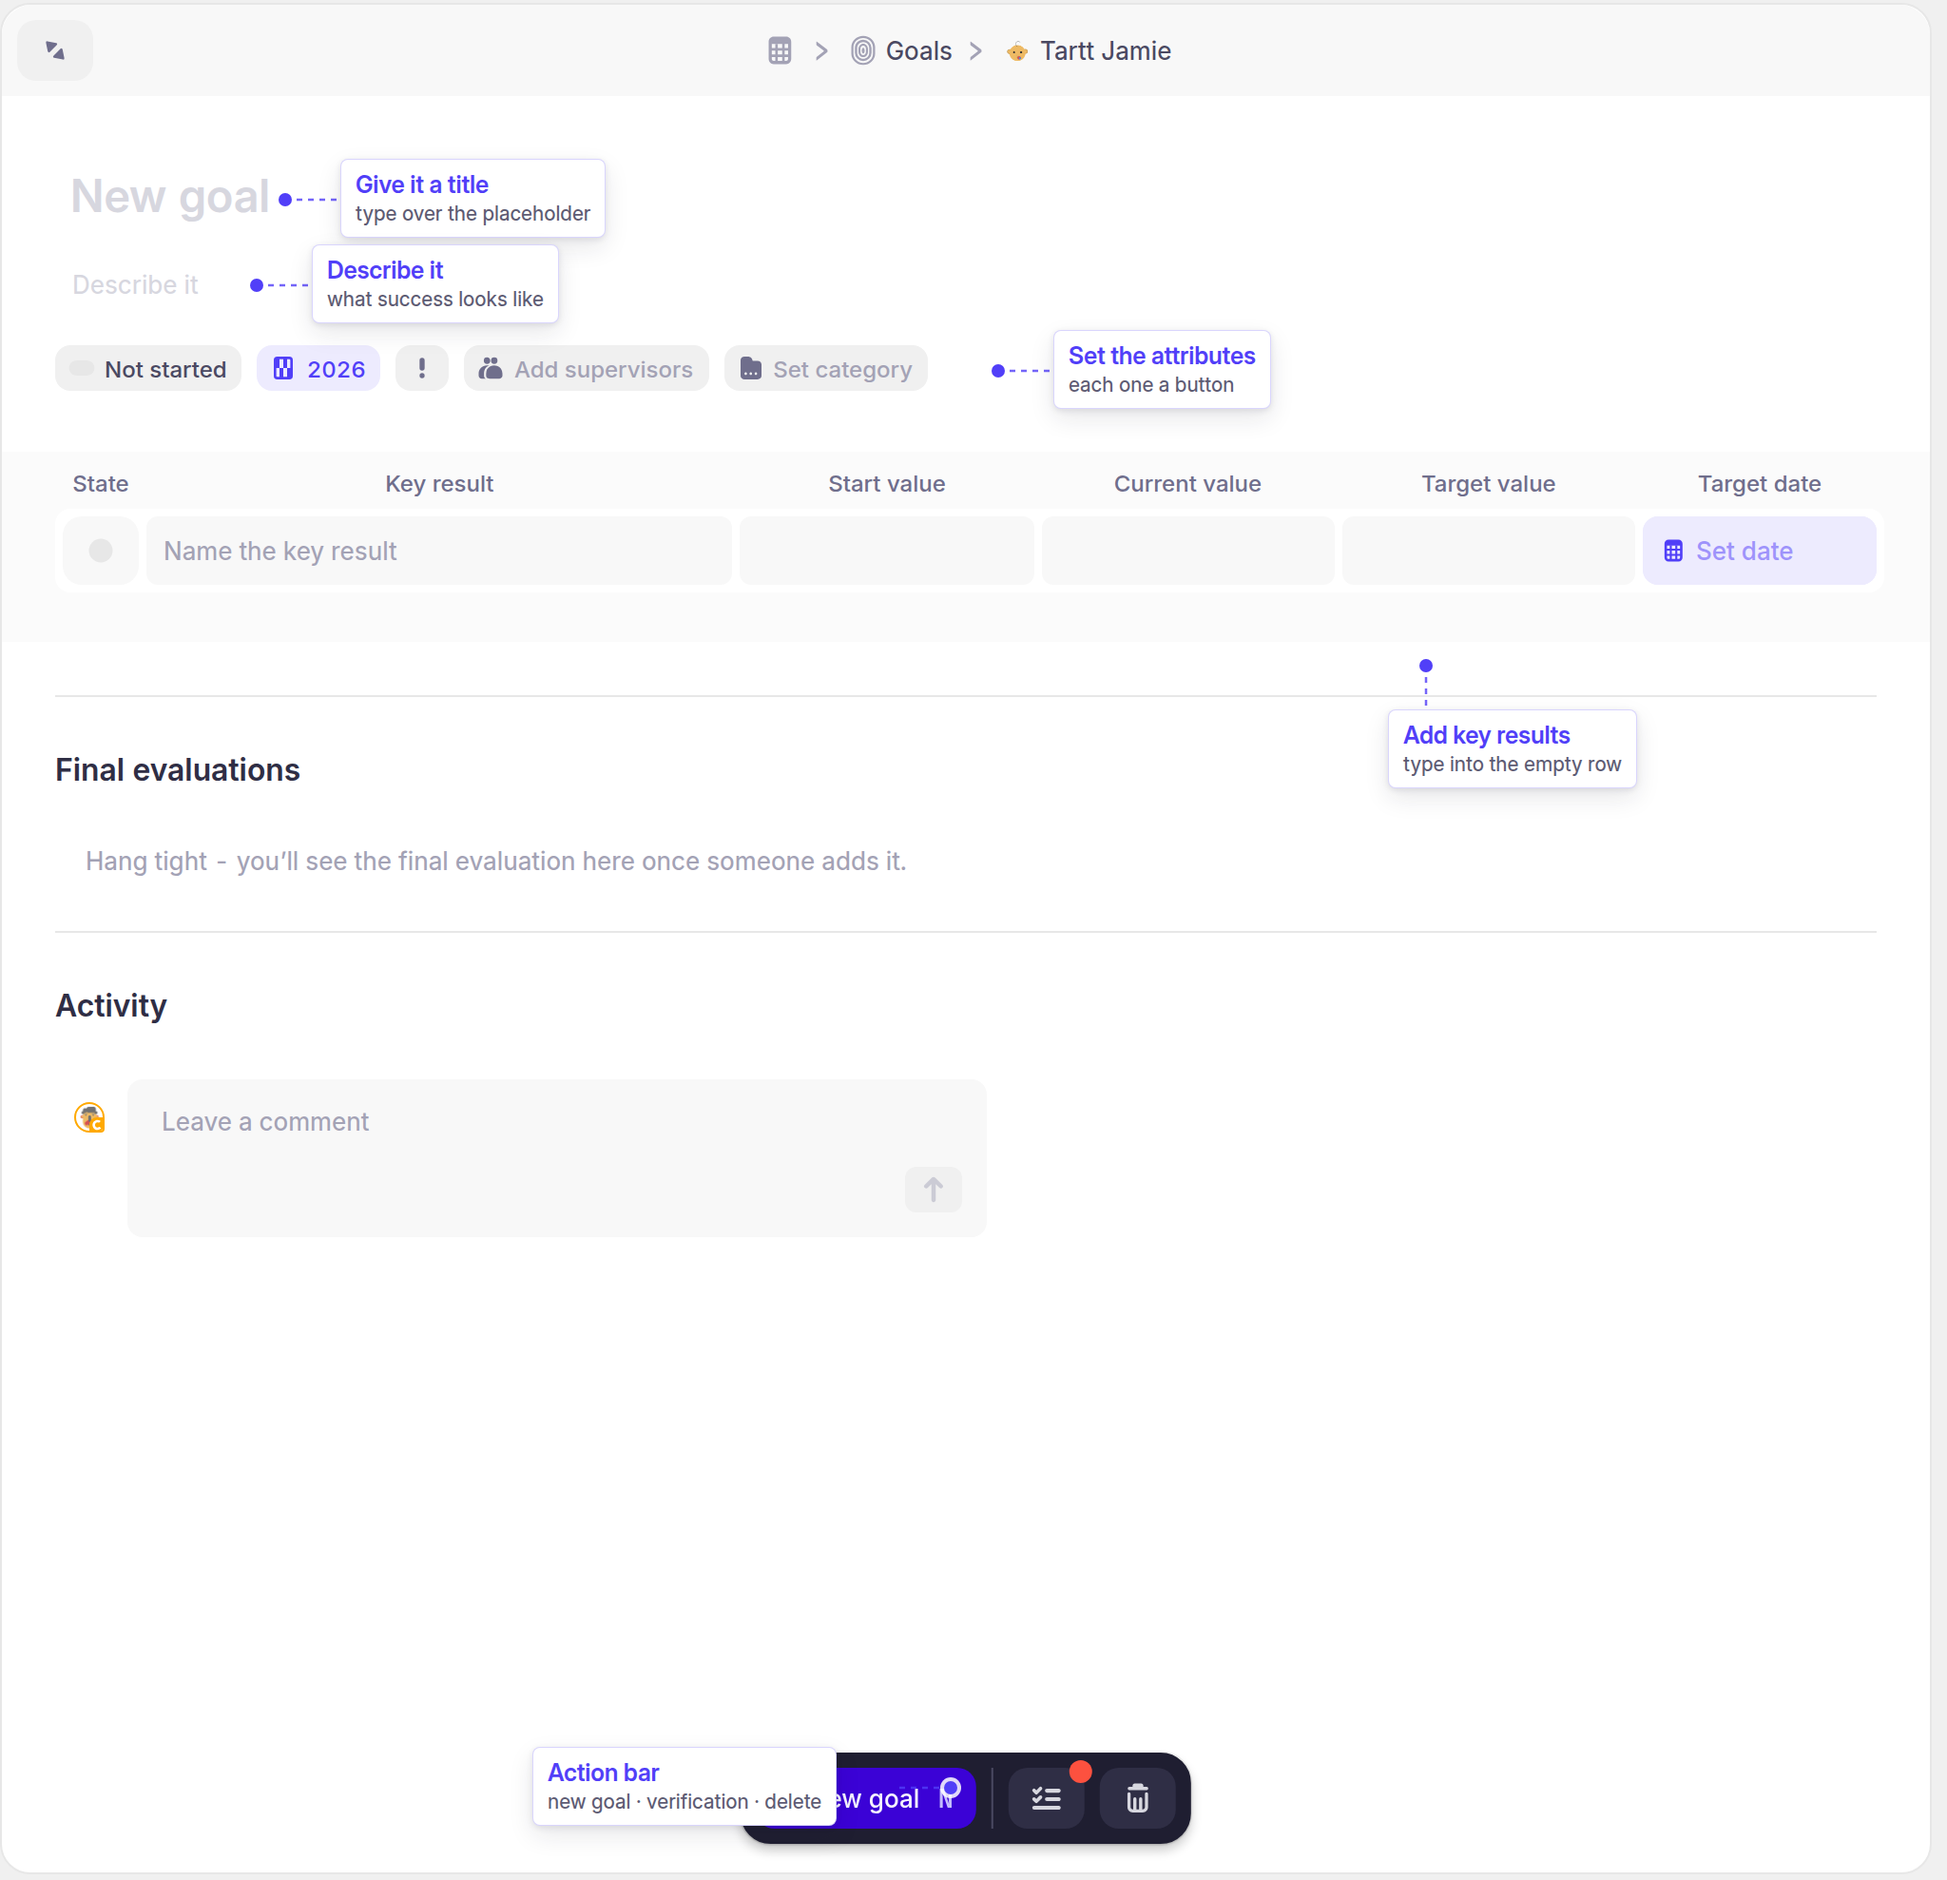
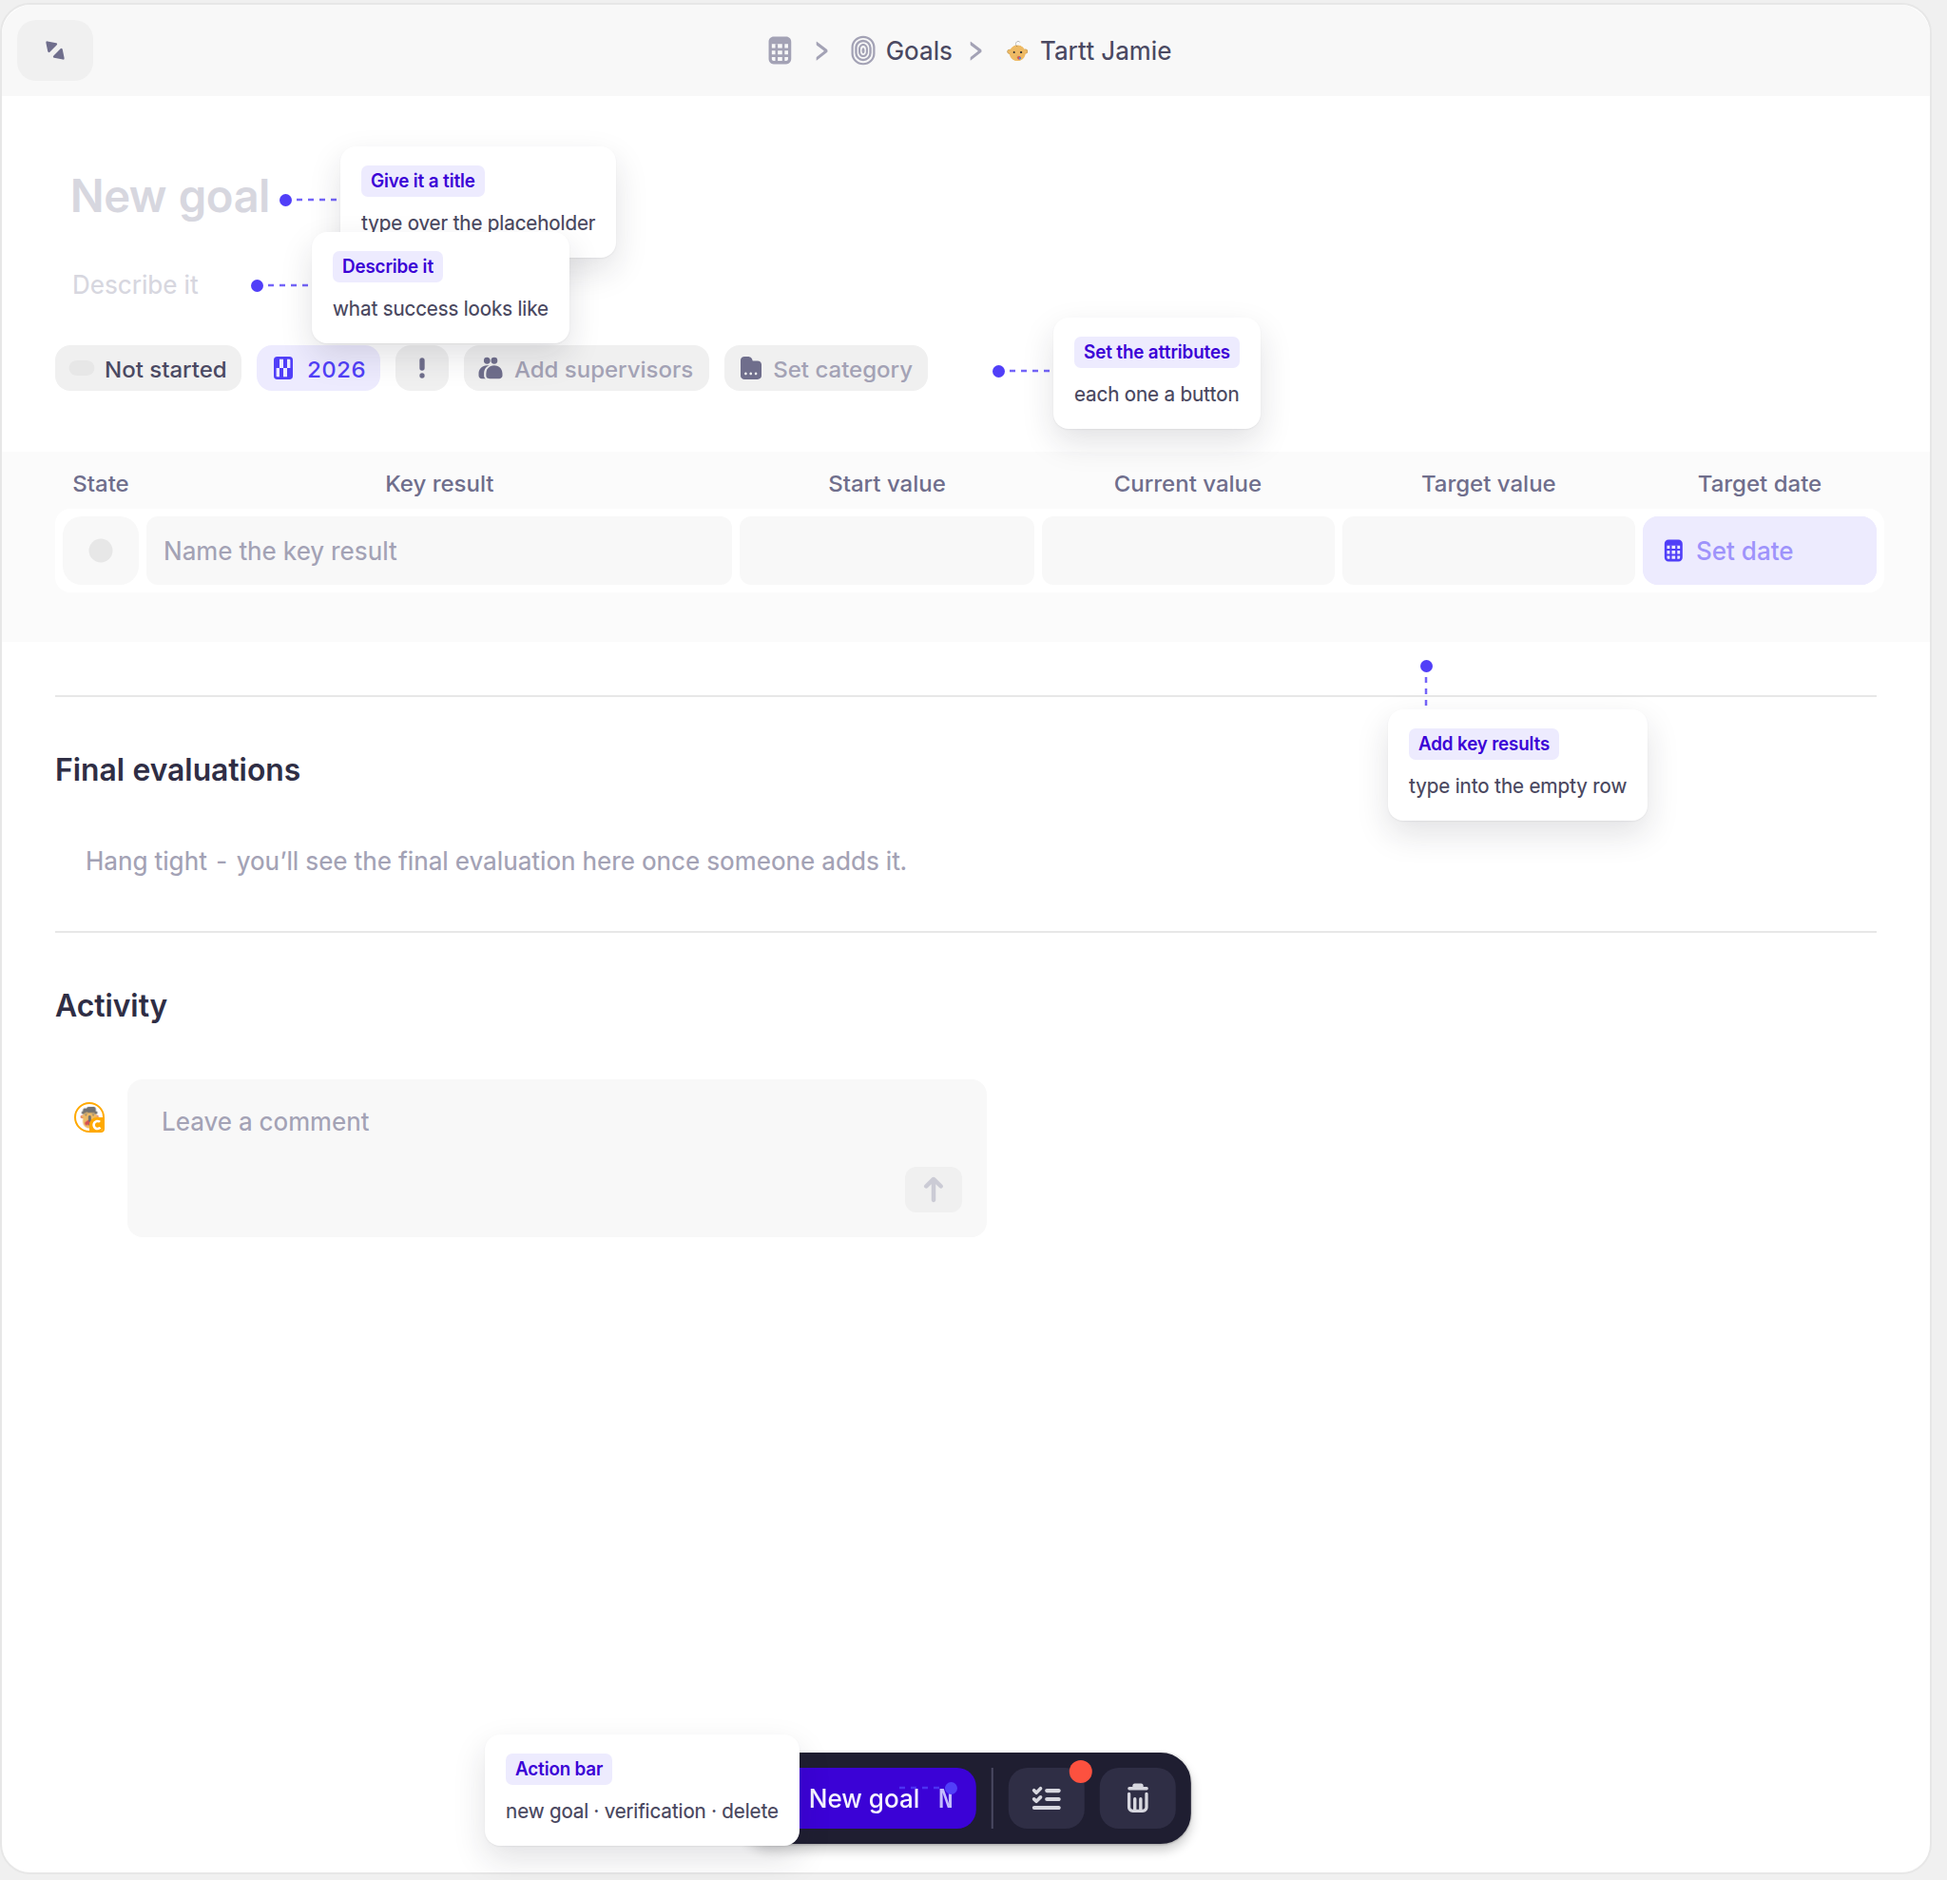
Goals figures: airier callouts, bleed crops to the frame edge
Callouts
- Redesigned on the Figma annotation pattern: a small chip with the name
  over wrapping body text, 20px padding, soft shadow, ~470px card. The
  old one-line bold pills were too dense and too heavy.
- Verification loses its callouts entirely. That popover already uses
  red/amber/green to mean something, so coloured labels on top of it just
  fought the UI.
- Group-overview callouts moved into genuinely empty space so no dot or
  leader sits on the pills and circles they name.

Framing
- <Frame> takes a `bleed` prop naming the edges where the screenshot is a
  crop and the screen continues; those edges lose the frame's 8px inset so
  the image runs to the edge. A partial screenshot inset on all four sides
  read as a cut-out pasted onto a card. Each Goals figure now declares its
  own edges; the full-window hero keeps the inset all round.
- goals-list was cropped too narrow to fill a ~700px column at 2x, so it
  now includes surrounding context instead of being upscaled.

Conventions recorded in demo-cast.md: the callout anatomy, the no-colour
rule, bleed, and the minimum source width.

Claude-Session: https://claude.ai/code/session_01BcTgTxjwzSdWmEF7MFmzuM

diff --git a/site/components/mdx/mdx.css b/site/components/mdx/mdx.css
@@ -395,6 +395,37 @@
   height: auto;
   border-radius: var(--ym-radius);
 }
+/* ---- Cropped screenshots: bleed to the edge where the screen continues ----
+   A figure that shows only part of a screen shouldn't float inset on all four
+   sides — that reads as a cut-out pasted onto a card. On the edges named in
+   `bleed`, the inset goes and the image runs to the frame, so the crop reads
+   as "the screen carries on this way". The frame keeps its own rounded corner;
+   overflow: hidden trims the image to it. */
+.ym-frame-media[data-bleed~='top'] { padding-top: 0; }
+.ym-frame-media[data-bleed~='right'] { padding-right: 0; }
+.ym-frame-media[data-bleed~='bottom'] { padding-bottom: 0; }
+.ym-frame-media[data-bleed~='left'] { padding-left: 0; }
+.ym-frame-media[data-bleed='all'] { padding: 0; }
+
+.ym-frame-media[data-bleed~='top'] :is(img, video, .ym-zoom-trigger) {
+  border-top-left-radius: 0;
+  border-top-right-radius: 0;
+}
+.ym-frame-media[data-bleed~='bottom'] :is(img, video, .ym-zoom-trigger) {
+  border-bottom-left-radius: 0;
+  border-bottom-right-radius: 0;
+}
+.ym-frame-media[data-bleed~='left'] :is(img, video, .ym-zoom-trigger) {
+  border-top-left-radius: 0;
+  border-bottom-left-radius: 0;
+}
+.ym-frame-media[data-bleed~='right'] :is(img, video, .ym-zoom-trigger) {
+  border-top-right-radius: 0;
+  border-bottom-right-radius: 0;
+}
+.ym-frame-media[data-bleed='all'] :is(img, video, .ym-zoom-trigger) {
+  border-radius: 0;
+}
 /* ---- Click-to-zoom (Linear-style, ZoomImage.tsx) ----
    The in-page image IS the zoomed element — clicking transforms that same
    `<img>` to a centred, viewport-fitted size (no clone, so no swap and no

diff --git a/site/components/mdx/Frame.tsx b/site/components/mdx/Frame.tsx
@@ -30,16 +30,24 @@ function findImageProps(node: ReactNode): { src: string; alt: string } | null {
 
 export function Frame({
   caption,
+  bleed,
   children,
 }: {
   caption?: ReactNode;
+  /**
+   * Edges where the screenshot is a crop and the real screen continues:
+   * "top" | "right" | "bottom" | "left" (space-separated), or "all".
+   * Those edges lose the frame's inset so the image runs to the edge instead
+   * of floating inset on all four sides.
+   */
+  bleed?: string;
   children?: ReactNode;
 }) {
   const image = findImageProps(children);
 
   return (
     <figure className="ym-frame">
-      <div className="ym-frame-media">
+      <div className="ym-frame-media" data-bleed={bleed}>
         {image ? <ZoomImage src={image.src} alt={image.alt} /> : children}
       </div>
       {caption ? <figcaption className="ym-frame-caption">{caption}</figcaption> : null}

diff --git a/docs-guide/visuals/demo-cast.md b/docs-guide/visuals/demo-cast.md
@@ -66,8 +66,21 @@ it. Keep them off the content they point at: anchor the dot just *outside* the e
 end of a line of text, not on top of the icon), so neither the dot nor its leader line covers
 what the label is naming.
 
-**Callout type is Inter**, matching the docs: **600** for the label, **450** for the sub-line.
-Never the browser's default bold (700) — Yarmill's type tops out at 590.
+**Callout cards** follow the Figma annotation pattern: a small **chip** carrying the name
+(brand tint, Inter 600) over a line of **body text** (Inter 450) that wraps inside a ~470px
+card, with roomy padding (20px) and a soft shadow. Airy beats dense. Never the browser's
+default bold (700) — Yarmill's type tops out at 590. Don't colour-code the cards themselves:
+on a screen that already uses colour to mean something (Verification's red/amber/green, the
+state pills) coloured callouts fight the UI. Leave those screens un-annotated instead.
+
+**Bleed the crop to the frame.** `<Frame bleed="…">` takes the edges where the screenshot is a
+crop and the real screen continues — `top`/`right`/`bottom`/`left`, or `all`. Those edges lose
+the frame's inset so the image runs to the edge. A partial screenshot inset on all four sides
+reads as a cut-out pasted on a card. Keep the inset only on edges that are the window's own.
+
+**Size for a retina column.** The docs column is ~700px, so a figure wants **at least ~1400px**
+of source width. A narrow crop (a single column, a small popover) gets widened with
+surrounding context rather than upscaled.
 
 Some figures need no callouts at all. If the screen already names the thing — season-bucket
 headers, a two-level menu — let the caption do the work.
